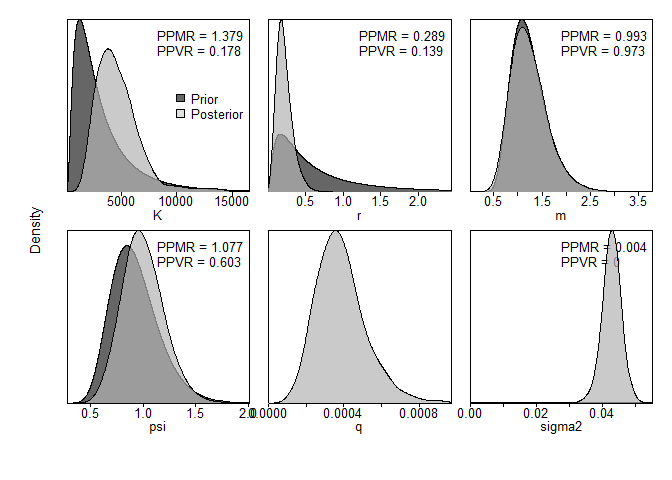
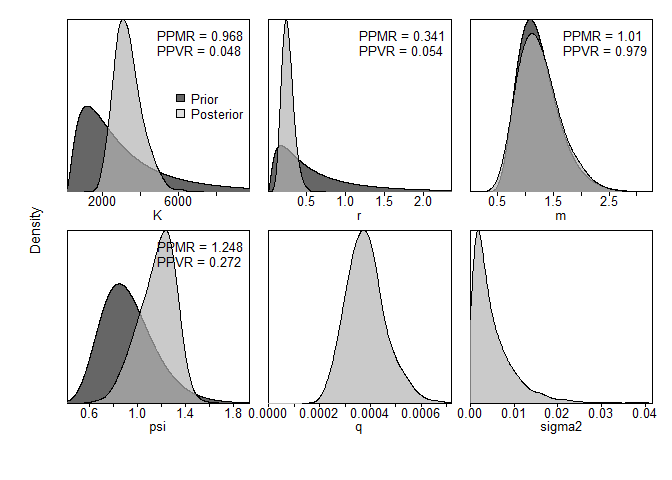
igamma引数変えて更新

diff --git a/JABBA_test.md b/JABBA_test.md
@@ -140,7 +140,7 @@ jbinput_hake1 <-  build_jabba(
   psi.prior = c(0.5,0.5),
   # variance sets
   sigma.proc = TRUE,
-  igamma = c(1, 1),
+  igamma = c(0.001, 0.001),
   sigma.est = TRUE, # additional observation variance
   fixed.obsE = 0.)
 ```
@@ -189,41 +189,41 @@ fit_hake1 <- fit_jabba(jbinput_hake1, quickmcmc=TRUE)
     ## ><> Produce results output of Schaefer model for test_hake TestRun <><
     ## 
     ## 
-    ## ><> Scenario TestRun_Schaefer completed in 0 min and 25 sec <><
+    ## ><> Scenario TestRun_Schaefer completed in 0 min and 30 sec <><
 
 ``` r
 knitr::kable(fit_hake1$pars)
 ```
 
-|        |         Median|           LCI|            UCI|  Geweke.p|  Heidel.p|
-|:-------|--------------:|-------------:|--------------:|---------:|---------:|
-| K      |  12569.9458380|  3347.5073842|  25639.4058677|     0.344|     0.480|
-| r      |      0.0486152|     0.0000221|      0.4083150|     0.341|     0.392|
-| q      |      0.0001947|     0.0000929|      0.0005554|     0.212|     0.612|
-| psi    |      0.7153458|     0.2933967|      0.9668896|     0.727|     0.438|
-| sigma2 |      0.0428862|     0.0369537|      0.0484069|     0.451|     0.348|
-| tau2   |      0.0020413|     0.0003701|      0.0117420|     0.566|     0.264|
-| m      |      2.0000000|     2.0000000|      2.0000000|       NaN|        NA|
+|        |        Median|           LCI|            UCI|  Geweke.p|  Heidel.p|
+|:-------|-------------:|-------------:|--------------:|---------:|---------:|
+| K      |  9484.6762460|  2377.5836755|  55877.6644746|     0.855|     0.406|
+| r      |     0.0935643|     0.0000130|      0.4728215|     0.511|     0.739|
+| q      |     0.0002084|     0.0000484|      0.0005683|     0.763|     0.602|
+| psi    |     0.8148630|     0.2771444|      0.9883167|     0.785|     0.826|
+| sigma2 |     0.0149417|     0.0011045|      0.0364607|     0.514|     0.493|
+| tau2   |     0.0023338|     0.0004324|      0.0159377|     0.348|     0.679|
+| m      |     2.0000000|     2.0000000|      2.0000000|       NaN|        NA|
 
 ``` r
 knitr::kable(fit_hake1$estimates)
 ```
 
-|             |             mu|           lci|            uci|
-|:------------|--------------:|-------------:|--------------:|
-| K           |  12569.9458380|  3347.5073842|  25639.4058677|
-| r           |      0.0486152|     0.0000221|      0.4083150|
-| psi         |      0.7153458|     0.2933967|      0.9668896|
-| sigma.proc  |      0.2070000|     0.1920000|      0.2200000|
-| m           |      2.0000000|     2.0000000|      2.0000000|
-| Hmsy        |      0.0240000|     0.0000000|      0.2040000|
-| SBmsy       |   6284.9730000|  1673.7540000|  12819.7030000|
-| MSY         |    158.9610000|     0.0760000|    595.1300000|
-| bmsyk       |      0.5000000|     0.5000000|      0.5000000|
-| P1965       |      0.7430000|     0.2960000|      1.2310000|
-| P1988       |      0.2820000|     0.1110000|      0.5010000|
-| B\_Bmsy.cur |      0.5640000|     0.2210000|      1.0020000|
-| H\_Hmsy.cur |      2.5580000|     0.6230000|   5003.8290000|
+|             |            mu|           lci|            uci|
+|:------------|-------------:|-------------:|--------------:|
+| K           |  9484.6762460|  2377.5836755|  55877.6644746|
+| r           |     0.0935643|     0.0000130|      0.4728215|
+| psi         |     0.8148630|     0.2771444|      0.9883167|
+| sigma.proc  |     0.1220000|     0.0330000|      0.1910000|
+| m           |     2.0000000|     2.0000000|      2.0000000|
+| Hmsy        |     0.0470000|     0.0000000|      0.2360000|
+| SBmsy       |  4742.3380000|  1188.7920000|  27938.8320000|
+| MSY         |   237.0740000|     0.0970000|    475.0360000|
+| bmsyk       |     0.5000000|     0.5000000|      0.5000000|
+| P1965       |     0.8580000|     0.2800000|      1.2270000|
+| P1988       |     0.3640000|     0.1090000|      0.6020000|
+| B\_Bmsy.cur |     0.7290000|     0.2190000|      1.2050000|
+| H\_Hmsy.cur |     1.3300000|     0.6020000|   4872.5490000|
 
 ### 結果の出力
 
@@ -336,7 +336,7 @@ jbinput_hake1.2 <-  build_jabba(
   K.prior = c(2407, 1),
   # variance sets
   sigma.proc = TRUE,
-  igamma = c(1, 1),
+  igamma = c(0.001, 0.001),
   sigma.est = TRUE, # additional observation variance
   fixed.obsE = 0.)
 ```
@@ -381,7 +381,7 @@ fit_hake1.2 <- fit_jabba(jbinput_hake1.2, quickmcmc=TRUE)
     ## ><> Produce results output of Schaefer model for test_hake TestRun <><
     ## 
     ## 
-    ## ><> Scenario TestRun_Schaefer completed in 0 min and 25 sec <><
+    ## ><> Scenario TestRun_Schaefer completed in 0 min and 22 sec <><
 
 ``` r
 knitr::kable(fit_hake1.2$pars)
@@ -389,12 +389,12 @@ knitr::kable(fit_hake1.2$pars)
 
 |        |        Median|           LCI|           UCI|  Geweke.p|  Heidel.p|
 |:-------|-------------:|-------------:|-------------:|---------:|---------:|
-| K      |  3562.6967130|  1755.1086909|  7435.9598955|     0.336|     0.922|
-| r      |     0.3335362|     0.1199745|     0.6974814|     0.558|     0.373|
-| q      |     0.0004248|     0.0002074|     0.0007836|     0.684|     0.785|
-| psi    |     1.0189037|     0.6750367|     1.4424293|     0.546|     0.242|
-| sigma2 |     0.0427587|     0.0366681|     0.0481016|     0.414|     0.437|
-| tau2   |     0.0021802|     0.0004040|     0.0131538|     0.632|     0.531|
+| K      |  2929.9815210|  1918.1294948|  5594.1284112|     0.575|     0.948|
+| r      |     0.3658252|     0.1849429|     0.5770013|     0.383|     0.731|
+| q      |     0.0004057|     0.0002368|     0.0006907|     0.682|     0.936|
+| psi    |     1.2244016|     0.8882066|     1.4232620|     0.429|     0.561|
+| sigma2 |     0.0032286|     0.0004525|     0.0207975|     0.456|     0.483|
+| tau2   |     0.0023203|     0.0004039|     0.0128240|     0.089|     0.235|
 | m      |     2.0000000|     2.0000000|     2.0000000|       NaN|        NA|
 
 ``` r
@@ -403,19 +403,19 @@ knitr::kable(fit_hake1.2$estimates)
 
 |             |            mu|           lci|           uci|
 |:------------|-------------:|-------------:|-------------:|
-| K           |  3562.6967130|  1755.1086909|  7435.9598955|
-| r           |     0.3335362|     0.1199745|     0.6974814|
-| psi         |     1.0189037|     0.6750367|     1.4424293|
-| sigma.proc  |     0.2070000|     0.1910000|     0.2190000|
+| K           |  2929.9815210|  1918.1294948|  5594.1284112|
+| r           |     0.3658252|     0.1849429|     0.5770013|
+| psi         |     1.2244016|     0.8882066|     1.4232620|
+| sigma.proc  |     0.0570000|     0.0210000|     0.1440000|
 | m           |     2.0000000|     2.0000000|     2.0000000|
-| Hmsy        |     0.1670000|     0.0600000|     0.3490000|
-| SBmsy       |  1781.3480000|   877.5540000|  3717.9800000|
-| MSY         |   292.2470000|   150.2130000|   451.7360000|
+| Hmsy        |     0.1830000|     0.0920000|     0.2890000|
+| SBmsy       |  1464.9910000|   959.0650000|  2797.0640000|
+| MSY         |   267.1960000|   211.5400000|   336.3200000|
 | bmsyk       |     0.5000000|     0.5000000|     0.5000000|
-| P1965       |     1.1480000|     0.6800000|     1.3570000|
-| P1988       |     0.4400000|     0.2530000|     0.6090000|
-| B\_Bmsy.cur |     0.8810000|     0.5060000|     1.2180000|
-| H\_Hmsy.cur |     0.8450000|     0.4870000|     1.7970000|
+| P1965       |     1.2570000|     0.9250000|     1.3790000|
+| P1988       |     0.5640000|     0.3860000|     0.6790000|
+| B\_Bmsy.cur |     1.1280000|     0.7720000|     1.3590000|
+| H\_Hmsy.cur |     0.7060000|     0.5320000|     1.0920000|
 
 -   KはSPICT(2407)より大きめ
 -   代わりにrはSPICT(0.46)より小さめ
@@ -506,13 +506,13 @@ jbplot_retro(hc,as.png = F,single.plots = F)
 
 ![](JABBA_test_files/figure-markdown_github/unnamed-chunk-9-1.png)
 
-    ##                  B          F        Bmsy        Fmsy       BtoB0         MSY
-    ## 1988   -0.03730391 0.03874947 0.032087094 -0.03455462 0.032087094 0.002470652
-    ## 1987   -0.05160053 0.05440801 0.032545509 -0.06418017 0.032545509 0.026101657
-    ## 1986   -0.11081441 0.12462462 0.028839620 -0.08102148 0.028839620 0.048423821
-    ## 1985   -0.04262622 0.04452412 0.027256621 -0.06811383 0.027256621 0.046939966
-    ## 1984   -0.16580597 0.19876187 0.001127225 -0.04346621 0.001127225 0.037331878
-    ## rho.mu -0.08163021 0.09221362 0.024371214 -0.05826726 0.024371214 0.032253595
+    ##                  B           F         Bmsy        Fmsy        BtoB0        MSY
+    ## 1988    0.03517132 -0.03397633  0.014425746 -0.02729388  0.014425746 0.01367346
+    ## 1987   -0.01119987  0.01132673  0.030940888 -0.05928875  0.030940888 0.03124957
+    ## 1986   -0.02785628  0.02865448  0.016206784 -0.05425079  0.016206784 0.03909801
+    ## 1985   -0.03810323  0.03961260 -0.006245104 -0.02894331 -0.006245104 0.03314601
+    ## 1984   -0.04254669  0.04443735 -0.015475441 -0.01636524 -0.015475441 0.03414156
+    ## rho.mu -0.01690695  0.01801097  0.007970574 -0.03722839  0.007970574 0.03026172
 
 シナリオ2
 =========
@@ -542,7 +542,7 @@ jbinput_hake2 <-  build_jabba(
 
   # variance sets
   sigma.proc = TRUE,
-  igamma = c(1, 1),
+  igamma = c(0.001, 0.001),
   sigma.est = TRUE, # additional observation variance
   fixed.obsE = 0.)
 ```
@@ -587,21 +587,21 @@ fit_hake2 <- fit_jabba(jbinput_hake2, quickmcmc=TRUE)
     ## ><> Produce results output of Pella_m model for test_hake TestRun <><
     ## 
     ## 
-    ## ><> Scenario TestRun_Pella_m completed in 0 min and 27 sec <><
+    ## ><> Scenario TestRun_Pella_m completed in 0 min and 26 sec <><
 
 ``` r
 knitr::kable(fit_hake2$pars)
 ```
 
-|        |        Median|           LCI|            UCI|  Geweke.p|  Heidel.p|
-|:-------|-------------:|-------------:|--------------:|---------:|---------:|
-| K      |  4320.1753734|  2019.7525563|  10267.7750743|     0.334|     0.440|
-| r      |     0.2008164|     0.0664405|      0.4750760|     0.280|     0.380|
-| q      |     0.0003697|     0.0001727|      0.0006965|     0.534|     0.141|
-| psi    |     0.9842082|     0.6517693|      1.4100181|     0.193|     0.166|
-| sigma2 |     0.0427728|     0.0367588|      0.0483301|     0.346|     0.101|
-| tau2   |     0.0021734|     0.0004011|      0.0129355|     0.113|     0.111|
-| m      |     1.1850212|     0.6618651|      2.1133812|     0.928|     0.496|
+|        |        Median|           LCI|           UCI|  Geweke.p|  Heidel.p|
+|:-------|-------------:|-------------:|-------------:|---------:|---------:|
+| K      |  3272.2125881|  2163.8905550|  5051.8096719|     0.342|     0.748|
+| r      |     0.2485918|     0.1295367|     0.4285907|     0.874|     0.434|
+| q      |     0.0003770|     0.0002479|     0.0005571|     0.838|     0.659|
+| psi    |     1.1829056|     0.8290657|     1.4071794|     0.602|     0.685|
+| sigma2 |     0.0033903|     0.0005022|     0.0178426|     0.130|     0.403|
+| tau2   |     0.0024791|     0.0004270|     0.0129387|     0.175|     0.051|
+| m      |     1.2026249|     0.6526546|     2.1170194|     0.955|     0.542|
 
 ``` r
 knitr::kable(fit_hake2$estimates)
@@ -609,19 +609,19 @@ knitr::kable(fit_hake2$estimates)
 
 |             |            mu|           lci|           uci|
 |:------------|-------------:|-------------:|-------------:|
-| K           |  4320.1753734|  2019.7525563|  10267.775074|
-| r           |     0.2008164|     0.0664405|      0.475076|
-| psi         |     0.9842082|     0.6517693|      1.410018|
-| sigma.proc  |     0.2070000|     0.1920000|      0.220000|
-| m           |     1.1850212|     0.6618651|      2.113381|
-| Hmsy        |     0.1700000|     0.0550000|      0.411000|
-| SBmsy       |  1707.7170000|   758.5540000|   4273.835000|
-| MSY         |   289.9050000|   146.9680000|    484.097000|
-| bmsyk       |     0.4000000|     0.2950000|      0.511000|
-| P1965       |     1.0850000|     0.6660000|      1.345000|
-| P1988       |     0.4170000|     0.2490000|      0.598000|
-| B\_Bmsy.cur |     1.0400000|     0.5850000|      1.675000|
-| H\_Hmsy.cur |     0.7200000|     0.3410000|      1.690000|
+| K           |  3272.2125881|  2163.8905550|  5051.8096719|
+| r           |     0.2485918|     0.1295367|     0.4285907|
+| psi         |     1.1829056|     0.8290657|     1.4071794|
+| sigma.proc  |     0.0580000|     0.0220000|     0.1340000|
+| m           |     1.2026249|     0.6526546|     2.1170194|
+| Hmsy        |     0.2050000|     0.1170000|     0.3480000|
+| SBmsy       |  1310.7630000|   807.3500000|  2124.9760000|
+| MSY         |   268.7450000|   206.8490000|   343.0480000|
+| bmsyk       |     0.4020000|     0.2930000|     0.5110000|
+| P1965       |     1.2110000|     0.8520000|     1.3690000|
+| P1988       |     0.5420000|     0.3750000|     0.6690000|
+| B\_Bmsy.cur |     1.3340000|     0.9140000|     1.9380000|
+| H\_Hmsy.cur |     0.5930000|     0.3610000|     0.9780000|
 
 ``` r
 jbplot_ppdist(fit_hake2)
@@ -709,20 +709,20 @@ jbplot_retro(hc,as.png = F,single.plots = F)
 
 ![](JABBA_test_files/figure-markdown_github/unnamed-chunk-12-1.png)
 
-    ##                  B           F          Bmsy         Fmsy       BtoB0
-    ## 1988    0.07851706 -0.07280094 -0.0006678312 -0.009838694  0.00983382
-    ## 1987    0.02557253 -0.02493488 -0.0489402141  0.005535844 -0.04781436
-    ## 1986    0.04843514 -0.04619755 -0.0294514391 -0.007559073 -0.02782200
-    ## 1985   -0.09493919  0.10489814 -0.0164399315 -0.011646650 -0.02003444
-    ## 1984    0.05946499 -0.05612738 -0.0800625571  0.035782774 -0.07872192
-    ## rho.mu  0.02341011 -0.01903252 -0.0351123946  0.002454840 -0.03291178
+    ##                   B            F         Bmsy         Fmsy        BtoB0
+    ## 1988    0.004853545 -0.004830102  0.035105334 -0.050254722  0.039011367
+    ## 1987    0.032074424 -0.031077627  0.021449257 -0.045435549  0.037456616
+    ## 1986   -0.010978806  0.011100678  0.004627095 -0.038801637  0.015446605
+    ## 1985   -0.056101345  0.059435773 -0.043217789  0.028898944 -0.036935583
+    ## 1984   -0.040847761  0.042587360 -0.070925105  0.073347845 -0.053163035
+    ## rho.mu -0.014199989  0.015443216 -0.010592241 -0.006449024  0.000363194
     ##                MSY
-    ## 1988   0.009148163
-    ## 1987   0.037887525
-    ## 1986   0.031170128
-    ## 1985   0.030218606
-    ## 1984   0.027786646
-    ## rho.mu 0.027242214
+    ## 1988   0.019698998
+    ## 1987   0.029206163
+    ## 1986   0.033455896
+    ## 1985   0.017806414
+    ## 1984   0.009314237
+    ## rho.mu 0.021896342
 
 シナリオ3
 =========
@@ -760,7 +760,7 @@ jbinput_hake3 <-  build_jabba(
   K.prior = c(2534, 1),
   # variance sets
   sigma.proc = TRUE,
-  igamma = c(1, 1),
+  igamma = c(0.001, 0.001),
   sigma.est = TRUE, # additional observation variance
   fixed.obsE = 0.)
 ```
@@ -805,7 +805,7 @@ fit_hake3 <- fit_jabba(jbinput_hake3, quickmcmc=TRUE)
     ## ><> Produce results output of Schaefer model for test_hake TestRun <><
     ## 
     ## 
-    ## ><> Scenario TestRun_Schaefer completed in 0 min and 20 sec <><
+    ## ><> Scenario TestRun_Schaefer completed in 0 min and 19 sec <><
 
 ``` r
 knitr::kable(fit_hake3$pars)
@@ -813,12 +813,12 @@ knitr::kable(fit_hake3$pars)
 
 |        |        Median|           LCI|           UCI|  Geweke.p|  Heidel.p|
 |:-------|-------------:|-------------:|-------------:|---------:|---------:|
-| K      |  3634.7961330|  1617.5955071|  9798.7599681|     0.633|     0.535|
-| r      |     0.3166986|     0.0805636|     0.7554701|     0.834|     0.538|
-| q      |     0.0004016|     0.0001606|     0.0008253|     0.903|     0.365|
-| psi    |     1.0202478|     0.7080561|     1.4390458|     0.557|     0.766|
-| sigma2 |     0.0426701|     0.0365085|     0.0481725|     0.083|     0.079|
-| tau2   |     0.0021315|     0.0003936|     0.0127040|     0.493|     0.717|
+| K      |  2935.8757917|  2177.1146498|  4508.2368240|     0.981|     0.246|
+| r      |     0.3616328|     0.2094652|     0.5220186|     0.716|     0.054|
+| q      |     0.0003908|     0.0002602|     0.0005618|     0.590|     0.275|
+| psi    |     1.2388297|     0.9762065|     1.4257003|     0.739|     0.737|
+| sigma2 |     0.0031555|     0.0004969|     0.0175393|     0.987|     0.846|
+| tau2   |     0.0025480|     0.0004457|     0.0130900|     0.892|     0.658|
 | m      |     2.0000000|     2.0000000|     2.0000000|       NaN|        NA|
 
 ``` r
@@ -827,19 +827,19 @@ knitr::kable(fit_hake3$estimates)
 
 |             |            mu|           lci|           uci|
 |:------------|-------------:|-------------:|-------------:|
-| K           |  3634.7961330|  1617.5955071|  9798.7599681|
-| r           |     0.3166986|     0.0805636|     0.7554701|
-| psi         |     1.0202478|     0.7080561|     1.4390458|
-| sigma.proc  |     0.2070000|     0.1910000|     0.2190000|
+| K           |  2935.8757917|  2177.1146498|  4508.2368240|
+| r           |     0.3616328|     0.2094652|     0.5220186|
+| psi         |     1.2388297|     0.9762065|     1.4257003|
+| sigma.proc  |     0.0560000|     0.0220000|     0.1320000|
 | m           |     2.0000000|     2.0000000|     2.0000000|
-| Hmsy        |     0.1580000|     0.0400000|     0.3780000|
-| SBmsy       |  1817.3980000|   808.7980000|  4899.3800000|
-| MSY         |   290.7480000|   136.6380000|   482.5040000|
+| Hmsy        |     0.1810000|     0.1050000|     0.2610000|
+| SBmsy       |  1467.9380000|  1088.5570000|  2254.1180000|
+| MSY         |   265.8450000|   213.9630000|   320.8140000|
 | bmsyk       |     0.5000000|     0.5000000|     0.5000000|
-| P1965       |     1.1360000|     0.7670000|     1.3560000|
-| P1988       |     0.4360000|     0.2910000|     0.6110000|
-| B\_Bmsy.cur |     0.8730000|     0.5810000|     1.2220000|
-| H\_Hmsy.cur |     0.8450000|     0.4740000|     1.9510000|
+| P1965       |     1.2700000|     1.0260000|     1.3810000|
+| P1988       |     0.5830000|     0.4410000|     0.6880000|
+| B\_Bmsy.cur |     1.1660000|     0.8820000|     1.3770000|
+| H\_Hmsy.cur |     0.6850000|     0.5350000|     0.9980000|
 
 ``` r
 jbplot_ppdist(fit_hake3)
@@ -927,13 +927,20 @@ jbplot_retro(hc,as.png = F,single.plots = F)
 
 ![](JABBA_test_files/figure-markdown_github/unnamed-chunk-15-1.png)
 
-    ##                  B          F         Bmsy        Fmsy        BtoB0         MSY
-    ## 1988   -0.06340131 0.06769314  0.062087422 -0.07063808  0.062087422 0.004680405
-    ## 1987   -0.05207325 0.05493379  0.030860510 -0.05790974  0.030860510 0.025979439
-    ## 1986   -0.09642076 0.10670980 -0.022659353 -0.02874956 -0.022659353 0.052202128
-    ## 1985   -0.20955425 0.26510881  0.004782431 -0.06692108  0.004782431 0.052054538
-    ## 1984   -0.14661435 0.17180315  0.021626752 -0.04014096  0.021626752 0.030154530
-    ## rho.mu -0.11361279 0.13324974  0.019339552 -0.05287188  0.019339552 0.033014208
+    ##                   B            F         Bmsy        Fmsy        BtoB0
+    ## 1988   -0.003473086  0.003485190  0.014238280 -0.03290845  0.014238280
+    ## 1987   -0.012940407  0.013110055  0.027185436 -0.05633860  0.027185436
+    ## 1986    0.008511560 -0.008439724  0.028972160 -0.05761350  0.028972160
+    ## 1985   -0.016033905  0.016295181 -0.003528853 -0.03746003 -0.003528853
+    ## 1984   -0.063185403  0.067447075 -0.014674739 -0.02780713 -0.014674739
+    ## rho.mu -0.017424248  0.018379555  0.010438457 -0.04242554  0.010438457
+    ##               MSY
+    ## 1988   0.02028834
+    ## 1987   0.03218288
+    ## 1986   0.03284297
+    ## 1985   0.04044461
+    ## 1984   0.04285553
+    ## rho.mu 0.03372287
 
 参考資料
 ========
